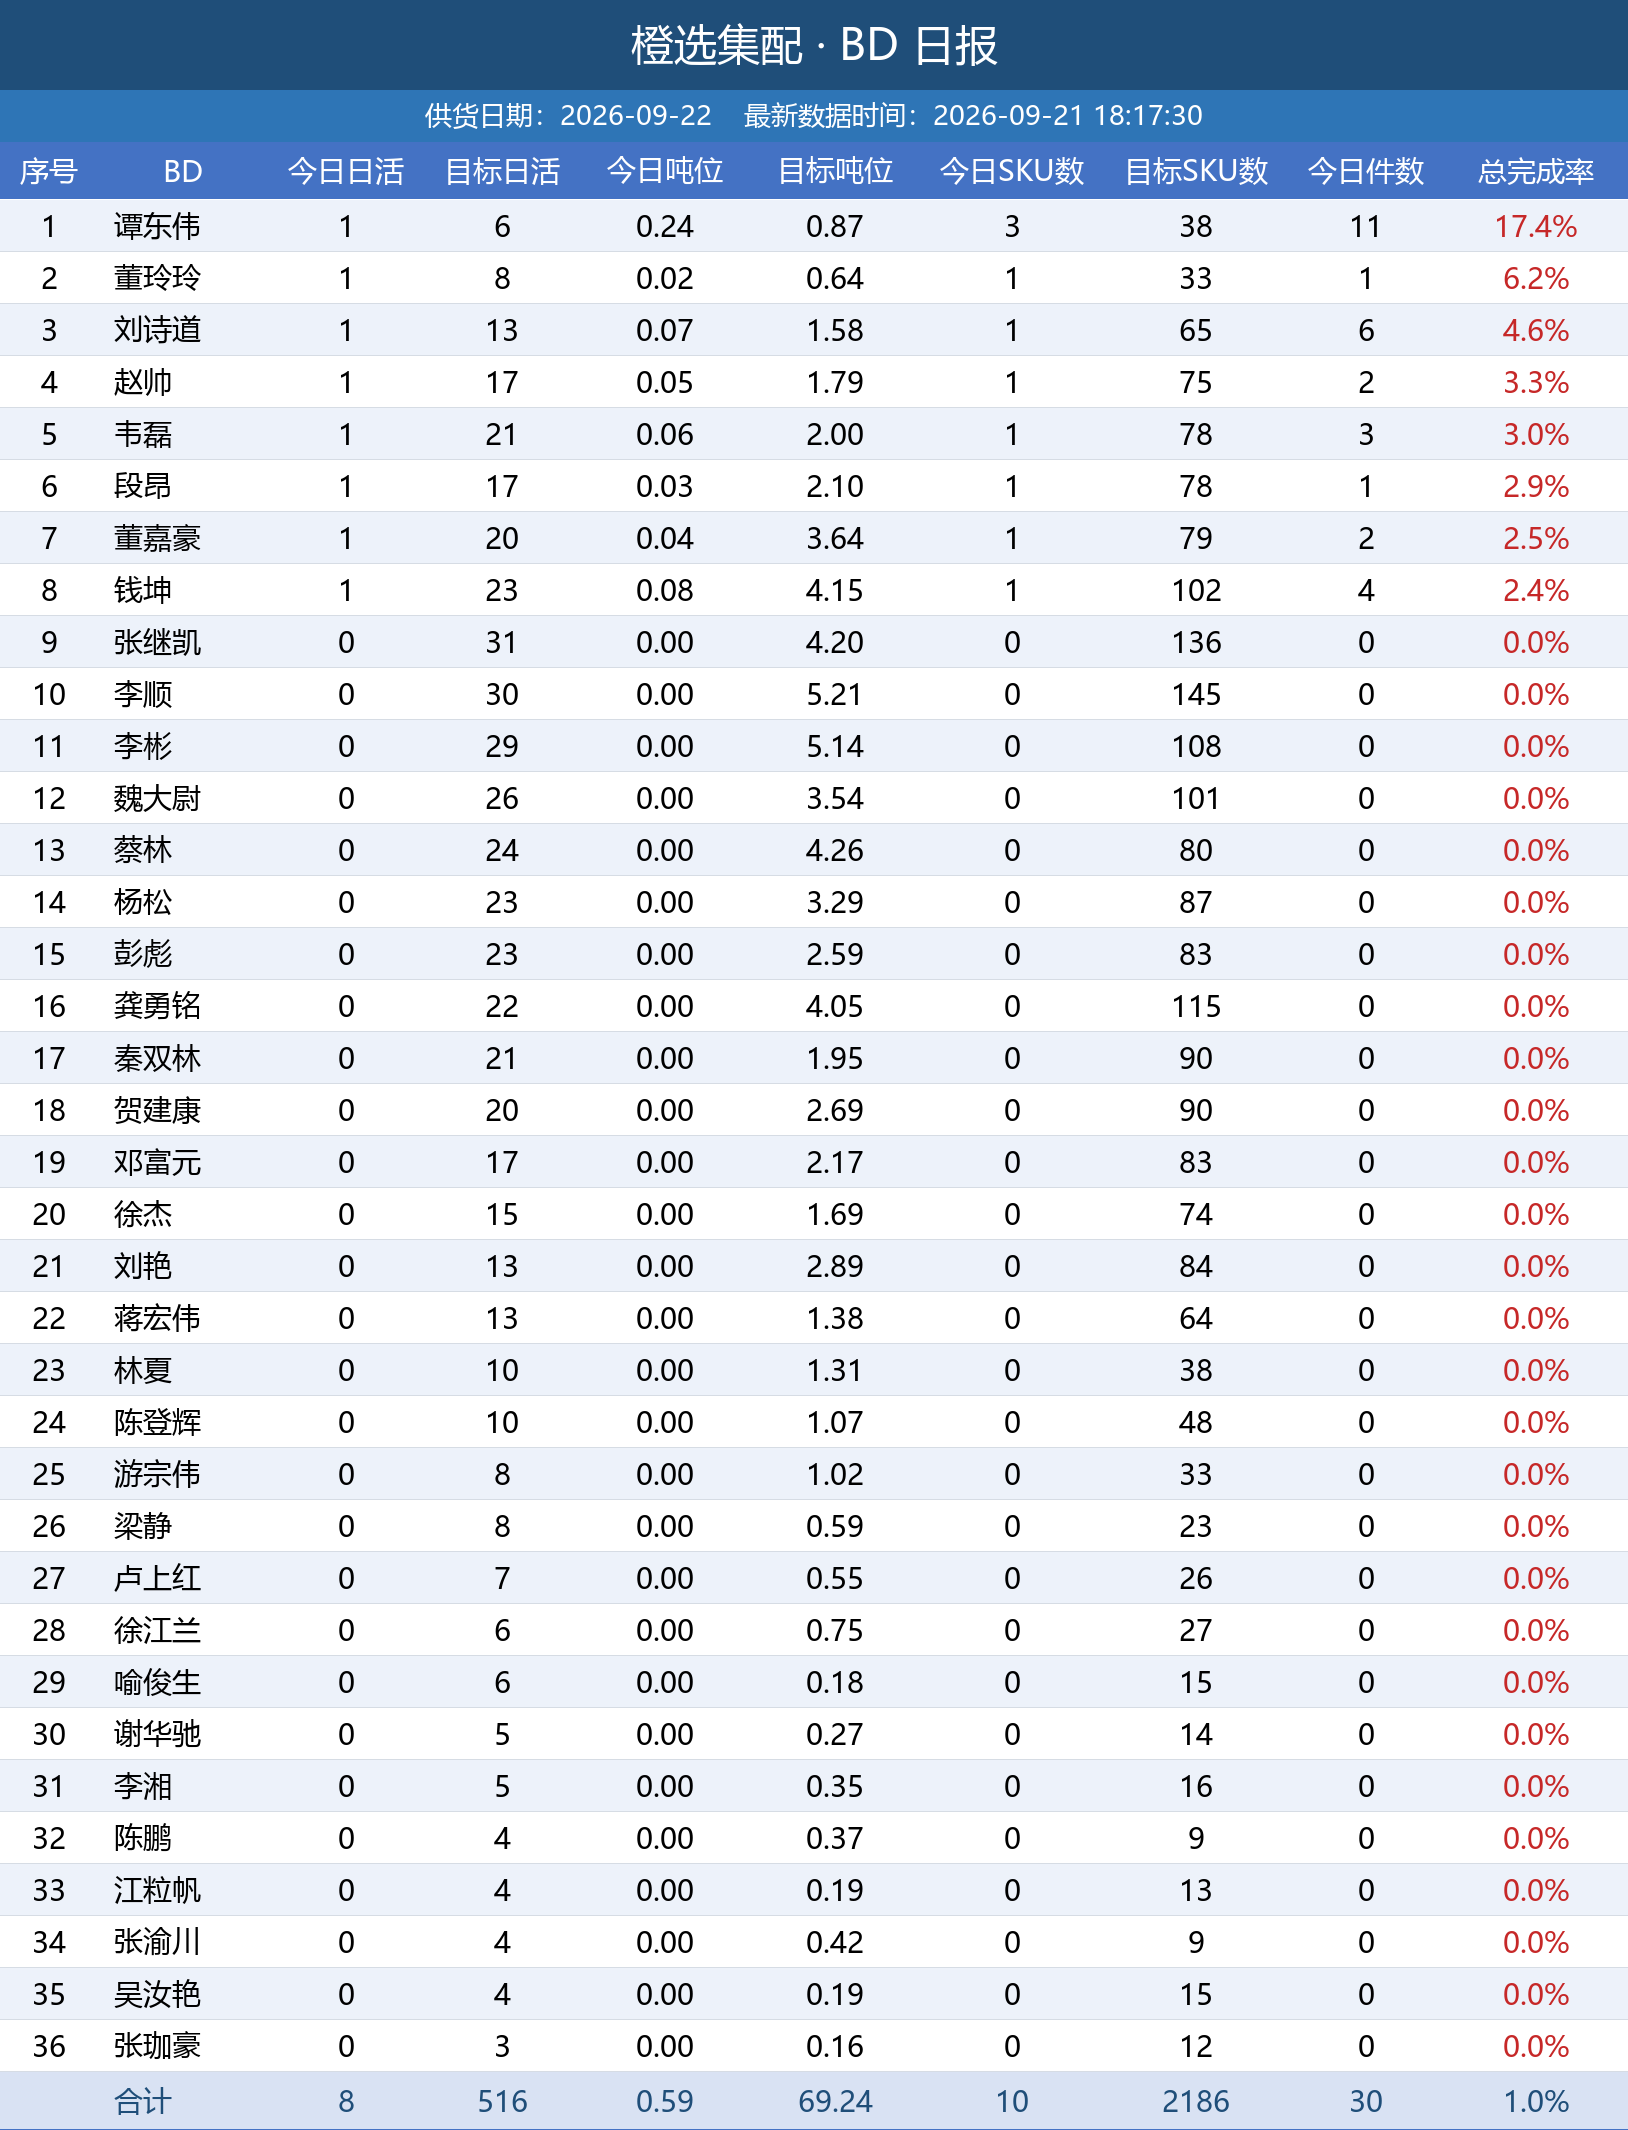
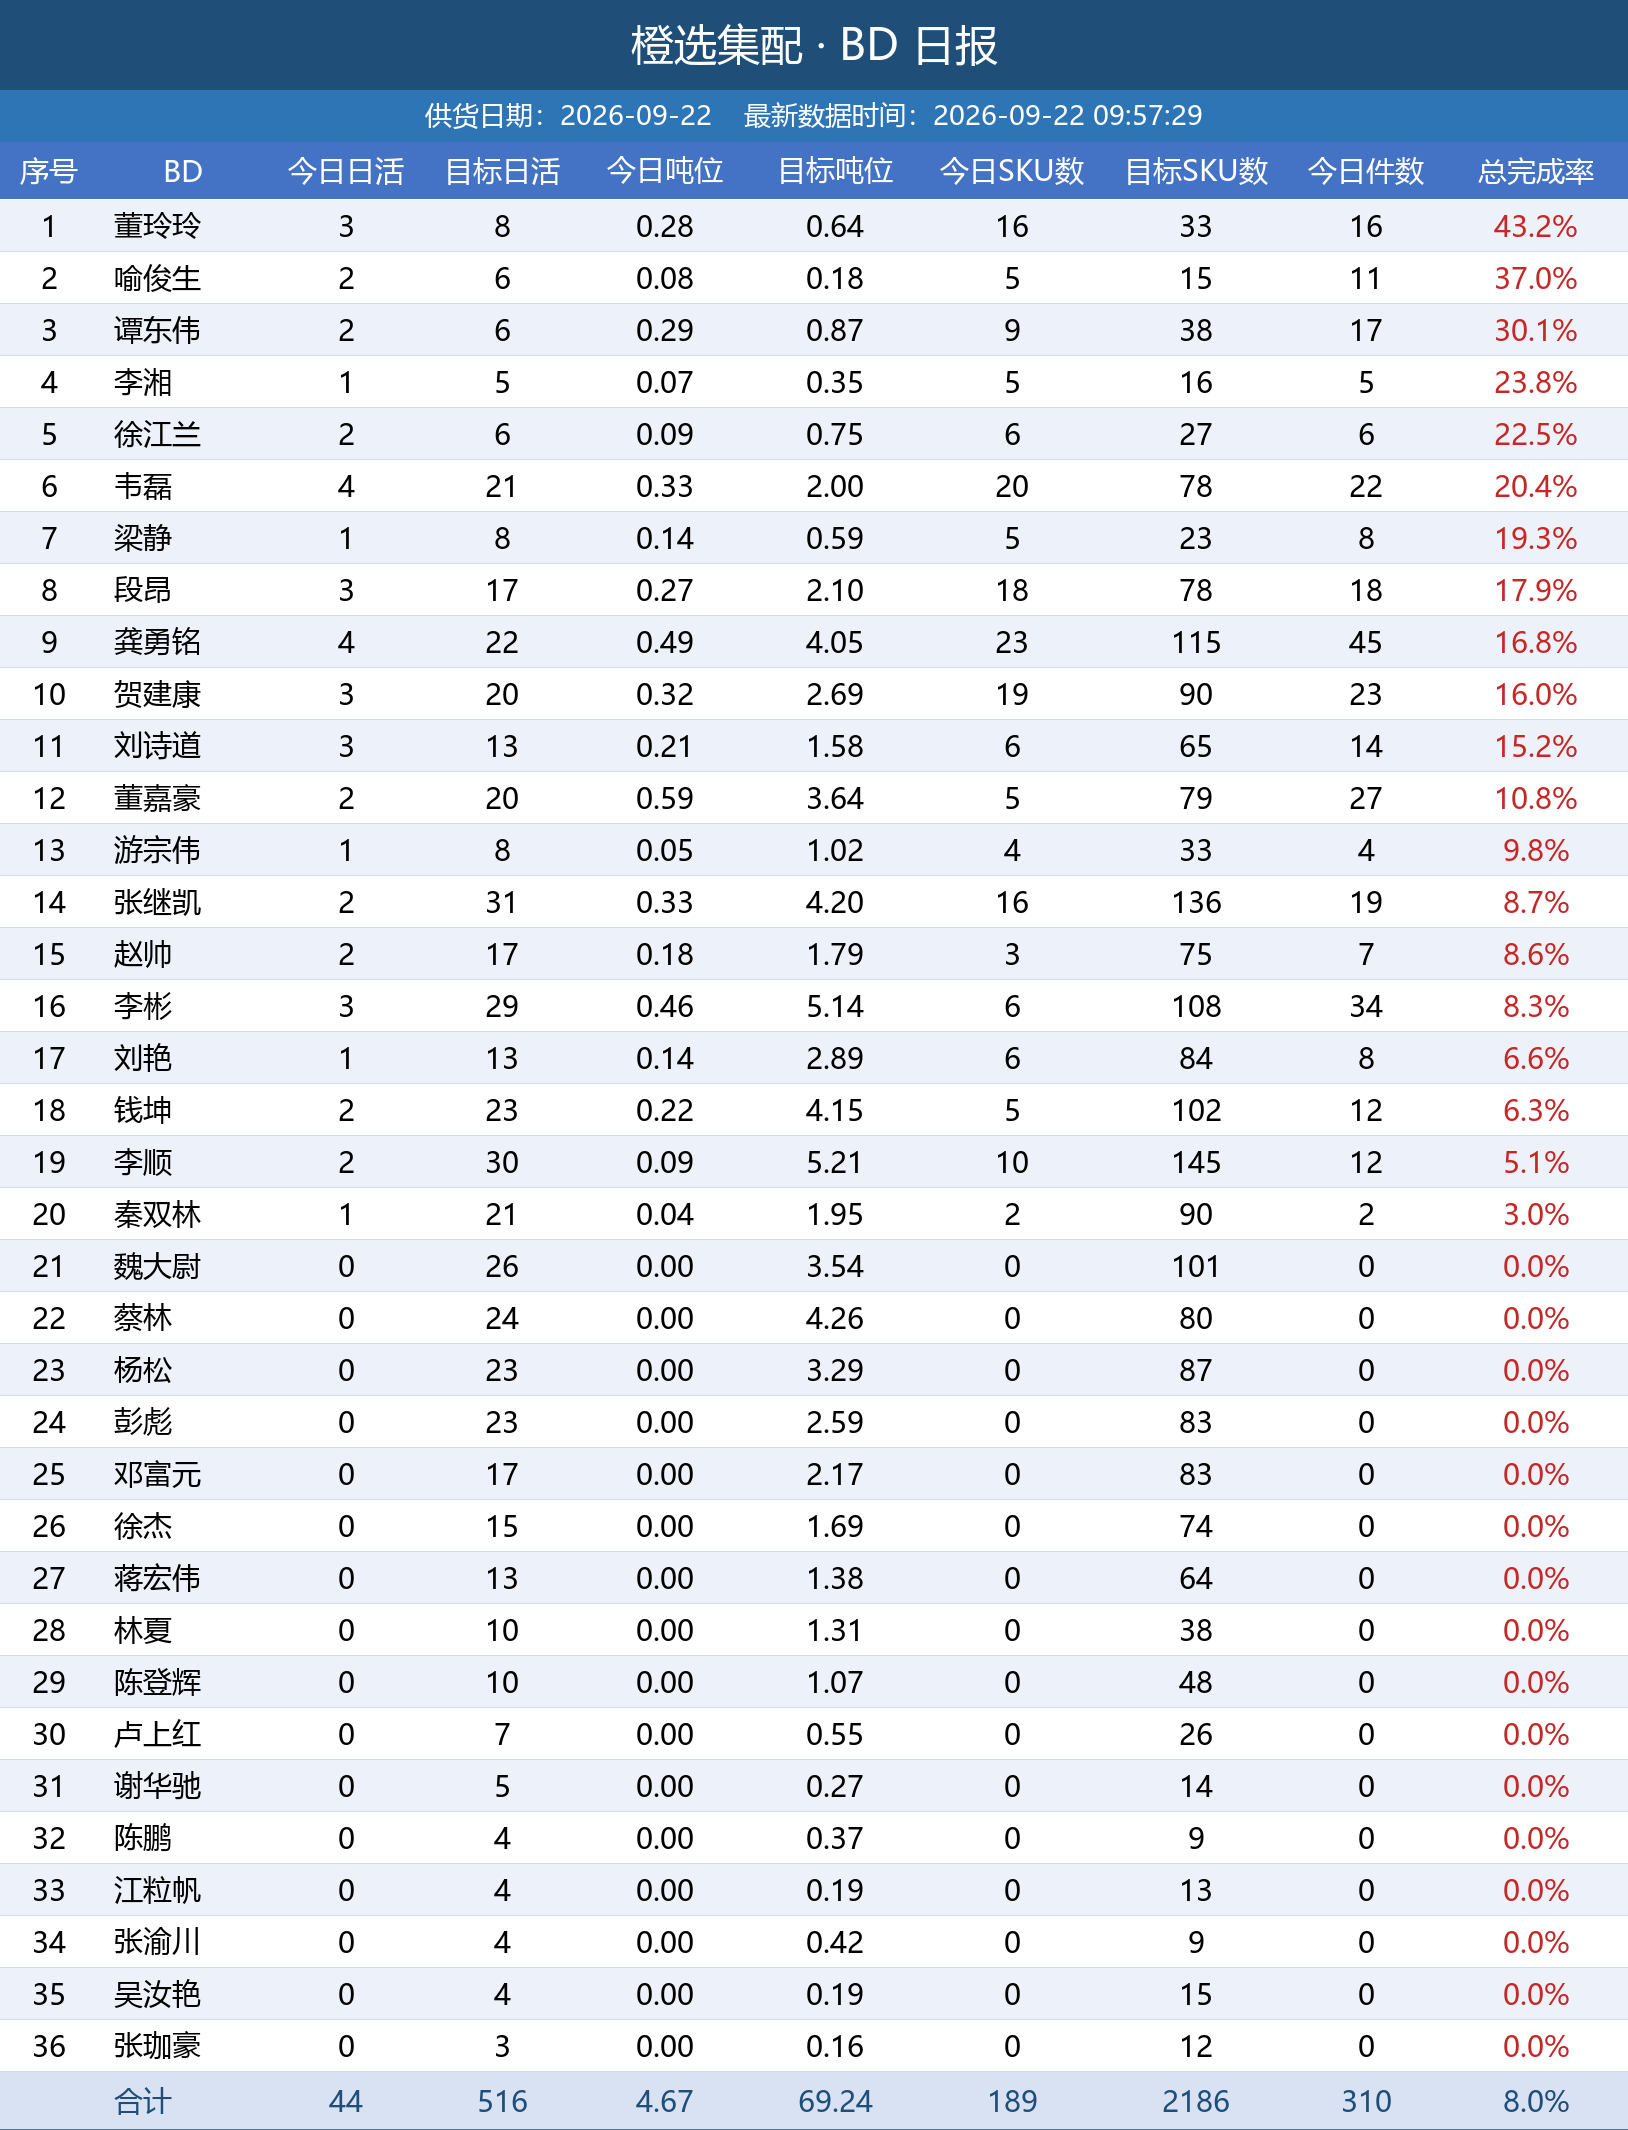
自动更新日报图片

diff --git a/daily_report/index.html b/daily_report/index.html
@@ -11,7 +11,7 @@ img { max-width: 100%; border: 1px solid #e5e5e5; margin-bottom: 24px; display: 
 </style>
 </head>
 <body>
-<h1>橙选集配日报图片（20260921_181840）</h1>
+<h1>橙选集配日报图片（20260922_095859）</h1>
 <img src="bd_latest.png" alt="BD 日报">
 <img src="wh_latest.png" alt="城市仓日报">
 <img src="zs_latest.png" alt="招商日报">
